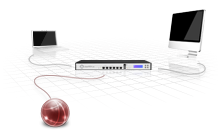
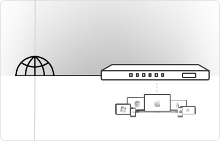
Updated images and re-arranged order [Tracker 12611]

diff --git a/views/wizard/mode.php b/views/wizard/mode.php
@@ -59,9 +59,9 @@ $checked[$network_mode] = TRUE;
 // Put what makes sense at the top of the list
 if ($iface_count > 1) {
     $radio_buttons = array(
+        radio_set_item('standalone', 'network_mode', $public_label, $checked['standalone'], $public_options),
         radio_set_item('gateway', 'network_mode', $gateway_label, $checked['gateway'], $gateway_options),
         radio_set_item('trustedstandalone', 'network_mode', $private_label, $checked['trustedstandalone'], $private_options),
-        radio_set_item('standalone', 'network_mode', $public_label, $checked['standalone'], $public_options),
     );
 } else {
     $gateway_options['disabled'] = TRUE;
@@ -70,9 +70,9 @@ if ($iface_count > 1) {
         "<span class='theme-text-alert'>" . lang('network_gateway_mode_unavailable_tip') . '</span>';
 
     $radio_buttons = array(
-        radio_set_item('trustedstandalone', 'network_mode', $private_label, $checked['trustedstandalone'], $private_options),
         radio_set_item('standalone', 'network_mode', $public_label, $checked['standalone'], $public_options),
         radio_set_item('gateway', 'network_mode', $gateway_label, $checked['gateway'], $gateway_options),
+        radio_set_item('trustedstandalone', 'network_mode', $private_label, $checked['trustedstandalone'], $private_options),
     );
 }
 

diff --git a/deploy/info.php b/deploy/info.php
@@ -5,7 +5,7 @@
 /////////////////////////////////////////////////////////////////////////////
 
 $app['basename'] = 'network';
-$app['version'] = '2.3.1';
+$app['version'] = '2.3.2';
 $app['release'] = '1';
 $app['vendor'] = 'ClearFoundation';
 $app['packager'] = 'ClearFoundation';
